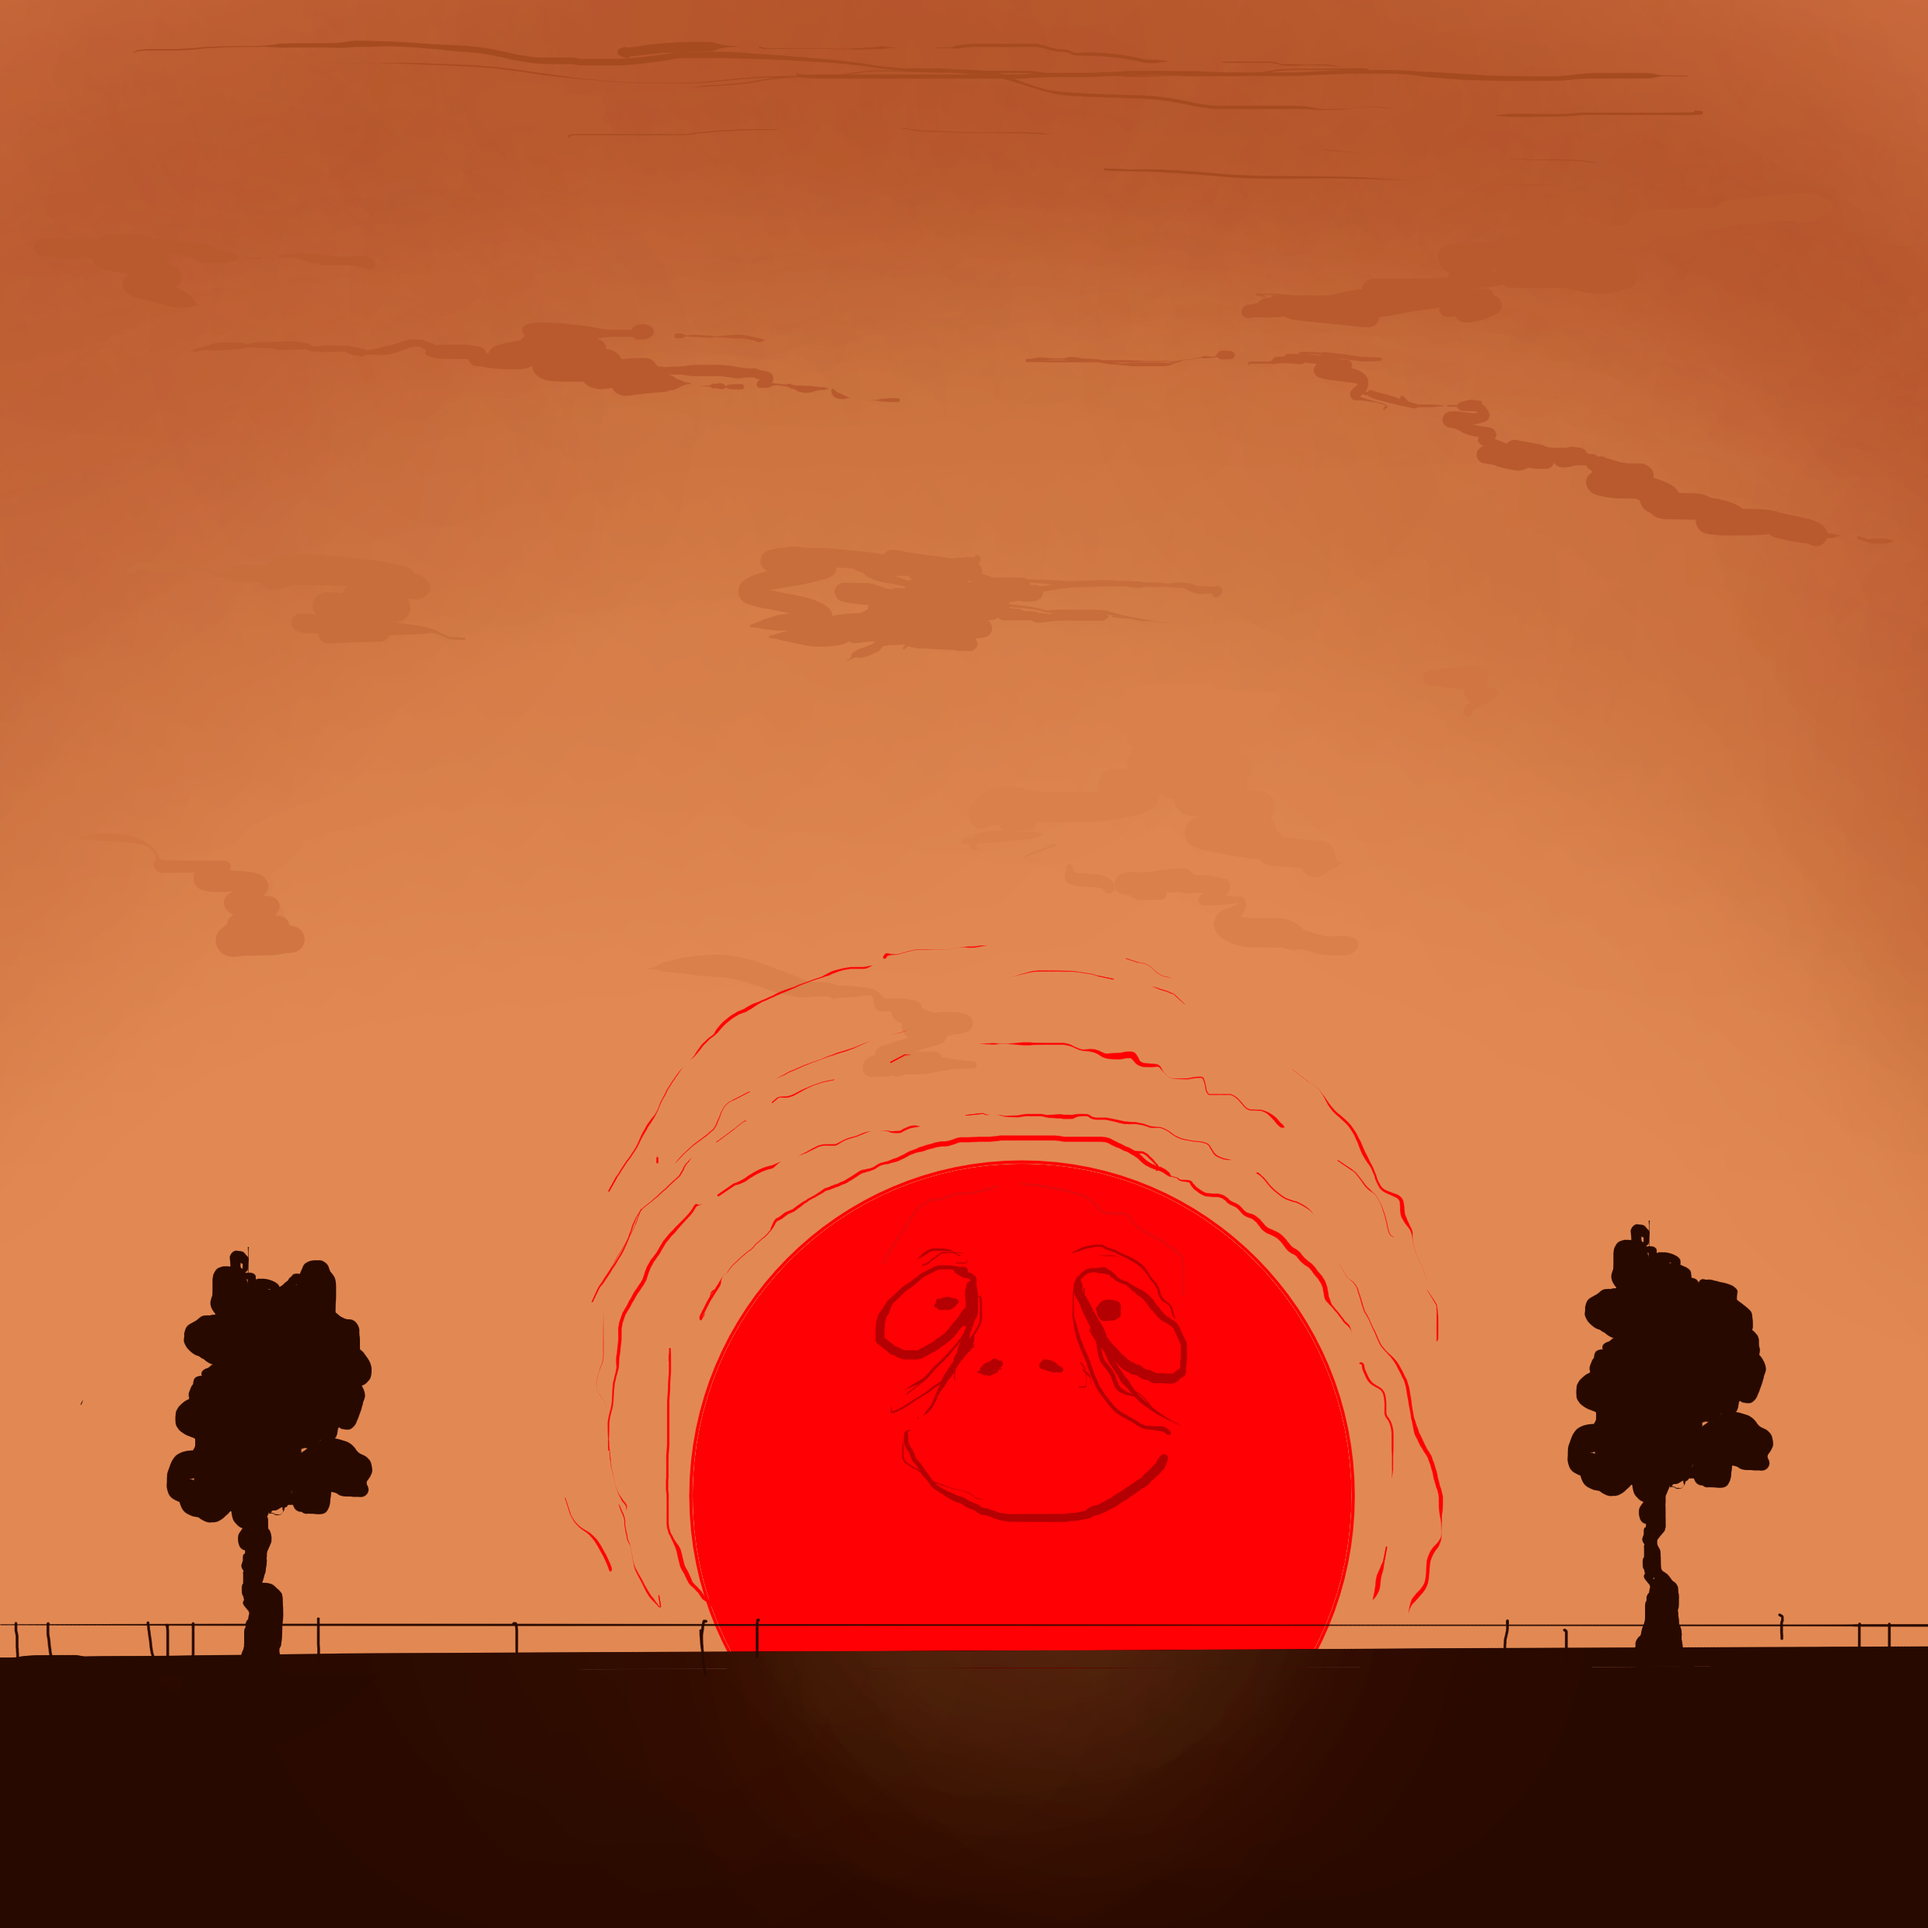
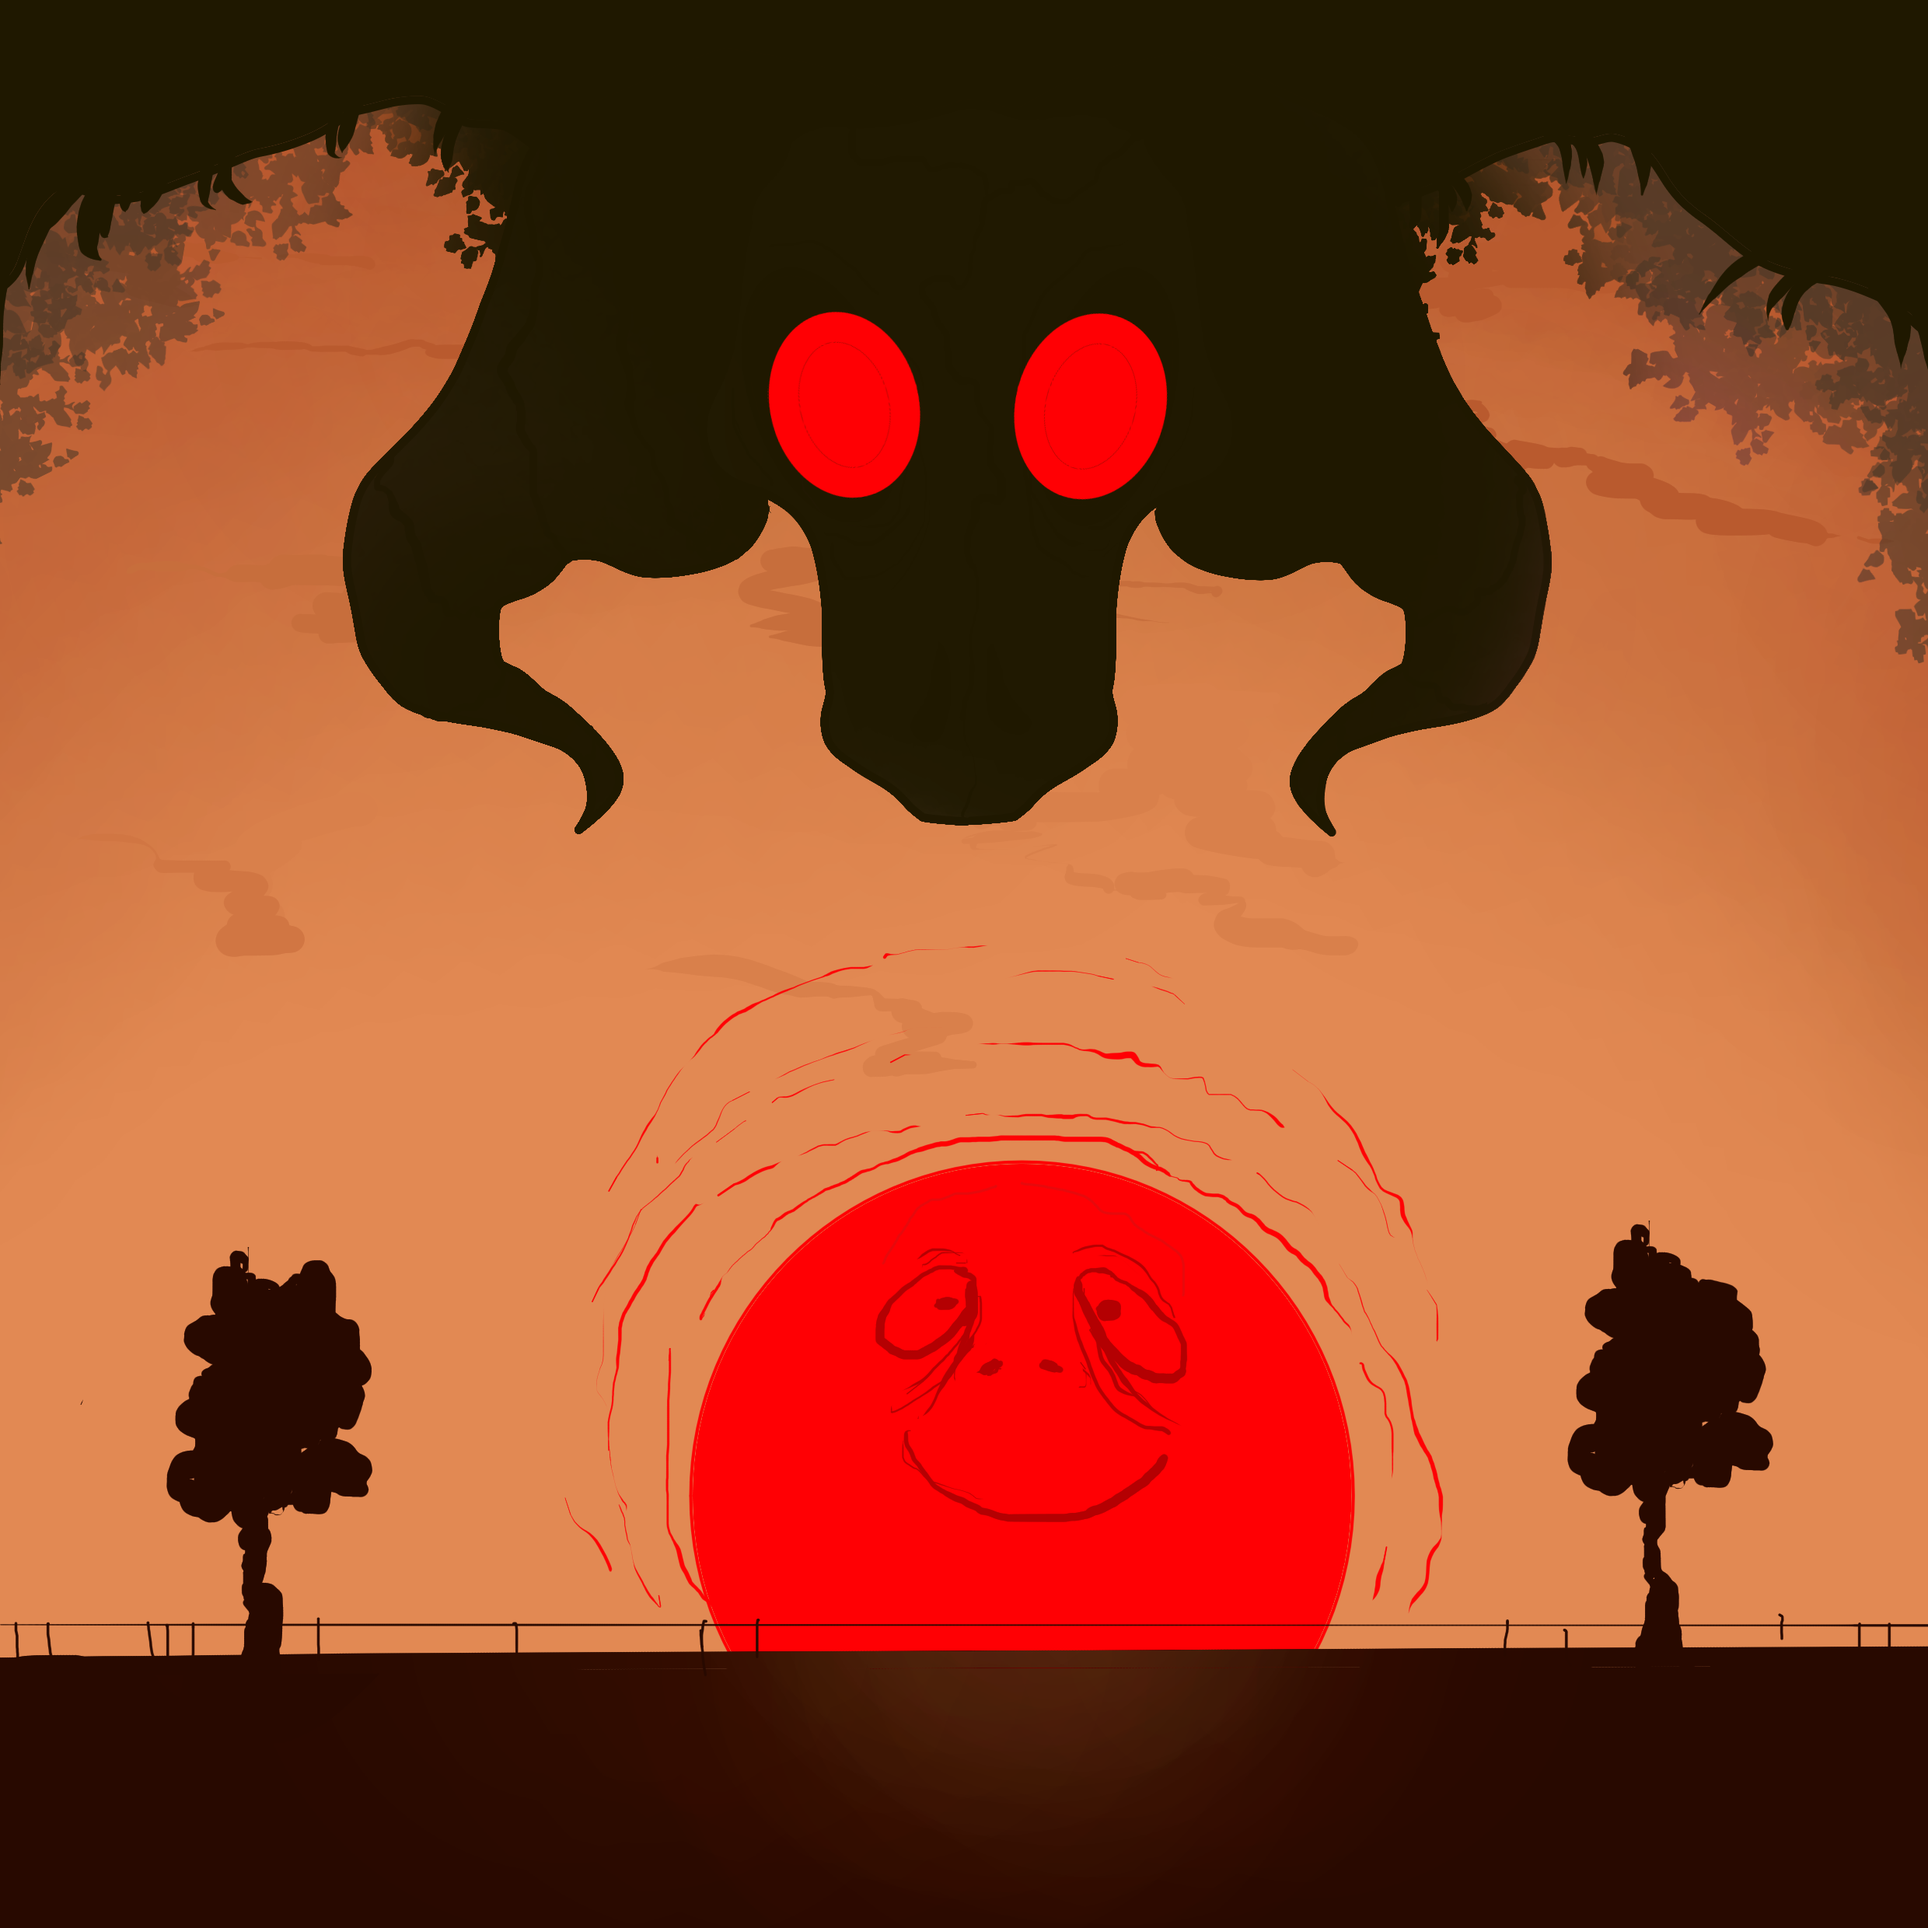
Механика босса

Changed region(s): [[0.0, 0.0, 1.0, 0.4347]]

diff --git a/main.py b/main.py
@@ -151,7 +151,6 @@ def main_cycle():
         all_sprites.add(m)
         healers.add(m)
         timer = 0
-        # доделать патроны
         m = Heal(bulletsimage, 2, 1)
         all_sprites.add(m)
         amo.add(m)
@@ -187,7 +186,7 @@ def main_cycle():
     place = text.get_rect(topleft=(10, 55))
     screen.blit(text, place)
 
-    if curscore >= 0:
+    if curscore >= 20:
         bfrunning = True
 
     pygame.display.flip()
@@ -195,11 +194,15 @@ def main_cycle():
 
 
 def game_over():
-    global running, menu_running, lost_running, screen, WIDTH, HEIGHT
+    global running, menu_running, lost_running, screen, WIDTH, HEIGHT, result
     clear_sprites()
-    intro_text = ['ИГРА ОКОНЧЕНА']
+    if result:
+        intro_text = ['!ПОБЕДА!']
+        fon = pygame.transform.scale(load_image('win_back.png'), (WIDTH, HEIGHT))
+    else:
+        intro_text = ['ИГРА ОКОНЧЕНА']
+        fon = pygame.transform.scale(load_image('lost_back.png'), (WIDTH, HEIGHT))
     buttons = ['В главное меню']
-    fon = pygame.transform.scale(load_image('lost_back.png'), (WIDTH, HEIGHT))
     screen.blit(fon, (0, 0))
     font = pygame.font.SysFont('verdana', 50)
     text_coord = 30
@@ -241,7 +244,7 @@ def game_over():
 
 
 def bossfight():
-    global running, bfrunning, lost_running, screen, WIDTH, HEIGHT
+    global running, bfrunning, lost_running, screen, WIDTH, HEIGHT, result, timer
     screen.blit(bgimg, (0, 0))
     screen.blit(penta, (0, 0))
     all_sprites = pygame.sprite.Group()
@@ -263,6 +266,12 @@ def bossfight():
     devil.add(bosshead)
     devil.add(bossrhand)
     devil.add(bosslhand)
+    all_sprites.draw(screen)
+    bad_bullets = pygame.sprite.Group()
+    m = Bullet(bulletimage, random.randrange(0, WIDTH), 0, 0, 1)
+    all_sprites.add(m)
+    bad_bullets.add(m)
+    timer = 0
     font = pygame.font.Font(None, 50)
     text = font.render("!BOSSFIGHT!", True, WHITE)
     place = text.get_rect(center=(WIDTH // 2, HEIGHT // 2))
@@ -291,16 +300,33 @@ def bossfight():
             exp_sound.play()
             bosshead.life -= 1
             hit.kill()
+            if bosshead.life <= 0:
+                boss_sound.play()
+                pygame.time.wait(3000)
+                bfrunning = False
+                lost_running = True
+                result = True
+                pygame.mixer.music.load('music/loosetheme.mp3')
+                pygame.mixer.music.set_volume(0.4)
+                pygame.mixer.music.play(loops=-1)
+        hits = pygame.sprite.spritecollide(player, bad_bullets, False, collided=pygame.sprite.collide_mask)
+        for hit in hits:
+            player.life -= 1
+            hit.kill()
         if player.life <= 0:
             bfrunning = False
             lost_running = True
             pygame.mixer.music.load('music/loosetheme.mp3')
             pygame.mixer.music.set_volume(0.4)
             pygame.mixer.music.play(loops=-1)
+        if timer//10:
+            m = Bullet(bulletimage, random.randrange(0, WIDTH), 0, 0, 1)
+            all_sprites.add(m)
+            bad_bullets.add(m)
+            timer = 0
 
         all_sprites.update()
         all_sprites.draw(screen)
-
         font = pygame.font.Font(None, 32)
         text = font.render(
             "HP: " + str(player.life), True, WHITE)
@@ -313,7 +339,7 @@ def bossfight():
         place = text1.get_rect(topright=(WIDTH - 10, 5))
         blit_stats(screen, WIDTH - (text1.get_width() + 120), 10, bosshead.life, 20, RED)
         screen.blit(text1, place)
-
+        timer += 1
         pygame.display.flip()
         clock.tick(FPS)
 
@@ -352,6 +378,8 @@ devilrhand = pygame.transform.scale(load_image("bossrighthand1.png"), (WIDTH, HE
 devillhand = pygame.transform.scale(load_image("bosslefthand1.png"), (WIDTH, HEIGHT))
 bulletimage = pygame.transform.scale(load_image("bullet.png"), (20, 30))
 penta = pygame.transform.scale(load_image("penta.png"), (WIDTH, HEIGHT))
+deadbosshead = pygame.transform.scale(load_image("deadbosshead.png"), (WIDTH, HEIGHT))
+pygame.transform.scale(load_image("penta.png"), (WIDTH, HEIGHT))
 
 all_sprites = pygame.sprite.Group()
 mobs = pygame.sprite.Group()
@@ -387,6 +415,7 @@ menu_running = True
 rules_running = False
 lost_running = False
 bfrunning = False
+result = False
 
 while running:
     clock.tick(FPS)

diff --git a/game_methods.py b/game_methods.py
@@ -147,7 +147,8 @@ class Mob(pygame.sprite.Sprite):
 class Bullet(pygame.sprite.Sprite):
     def __init__(self, image, x, y, kx, ky):
         pygame.sprite.Sprite.__init__(self)
-        self.image = image
+        self.image = image.convert_alpha()
+        self.mask = pygame.mask.from_surface(self.image)
         self.rect = self.image.get_rect()
         self.rect.bottom = y
         self.rect.centerx = x
